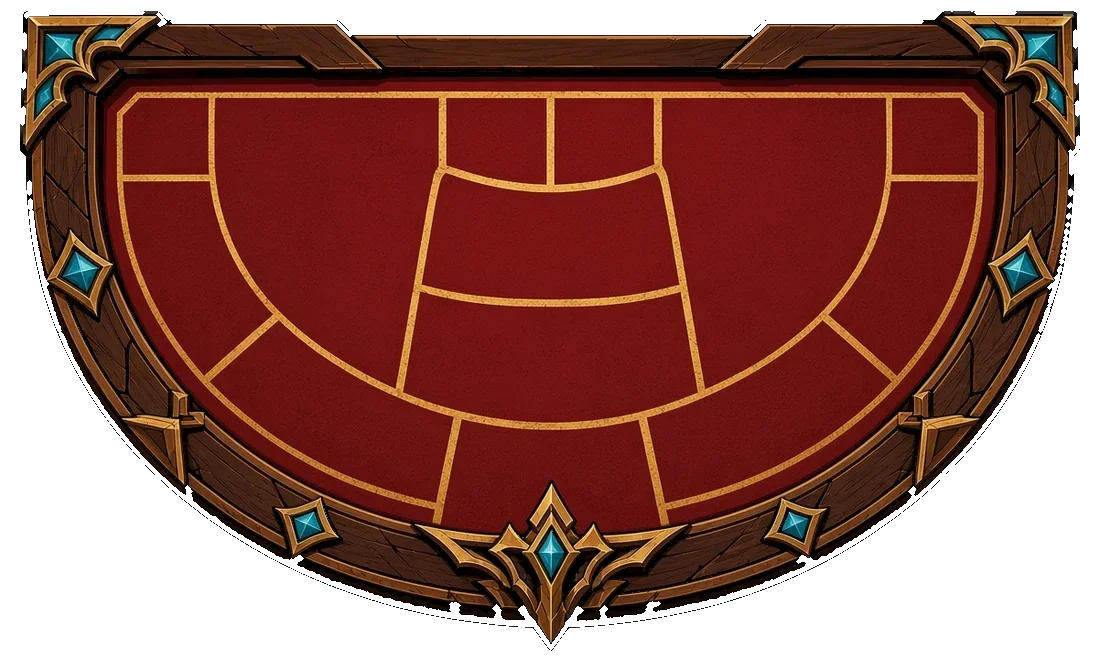
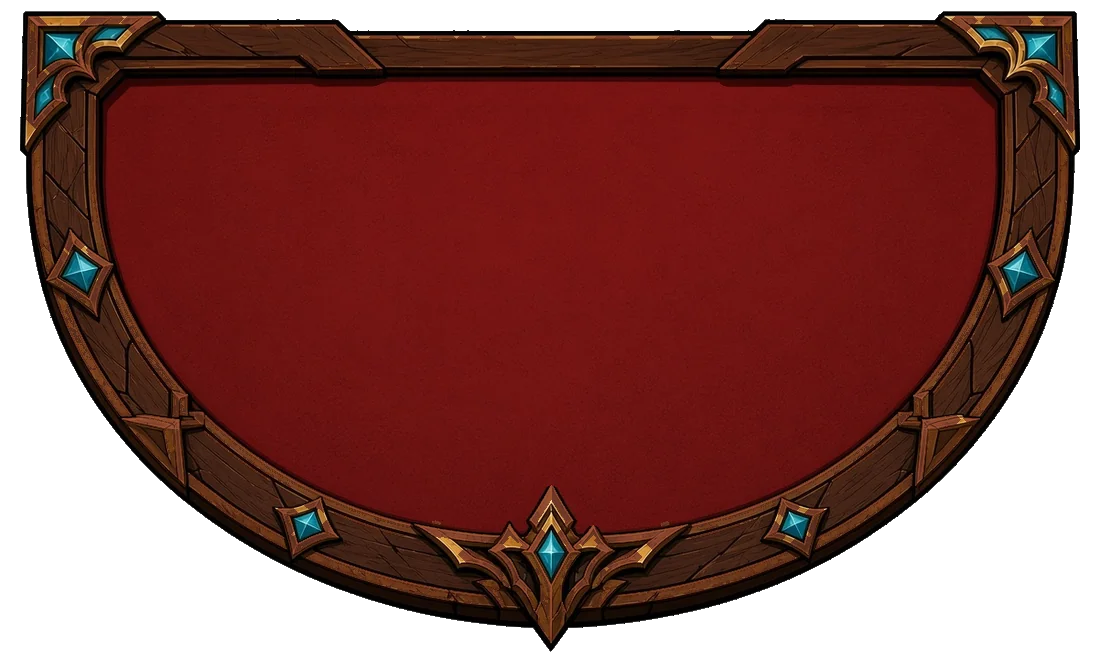
Wasteland baccarat felt: clean felt without printed lines
Claude-Session: https://claude.ai/code/session_01FRLtxfJkzgmHNiVDfJC7kh

diff --git a/sw.js b/sw.js
@@ -1,5 +1,5 @@
 /* Saddle Up Arcade: offline support. The page is network-first (fresh updates), art is cache-first. */
-var V='arcade-68ce0cc51f',ART='arcade-art-v11';
+var V='arcade-68ce0cc51f',ART='arcade-art-v12';
 self.addEventListener('install',function(e){self.skipWaiting();e.waitUntil(caches.open(V).then(function(c){return c.addAll(['./','index.html','manifest.webmanifest','icons/icon-192.png','icons/icon-512.png']);}));});
 self.addEventListener('activate',function(e){e.waitUntil(caches.keys().then(function(ks){return Promise.all(ks.filter(function(k){return k!==V&&k!==ART;}).map(function(k){return caches.delete(k);}));}).then(function(){return self.clients.claim();}));});
 self.addEventListener('fetch',function(e){
